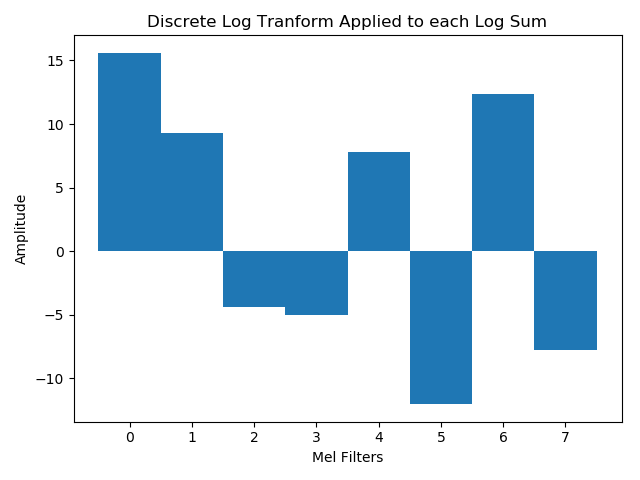
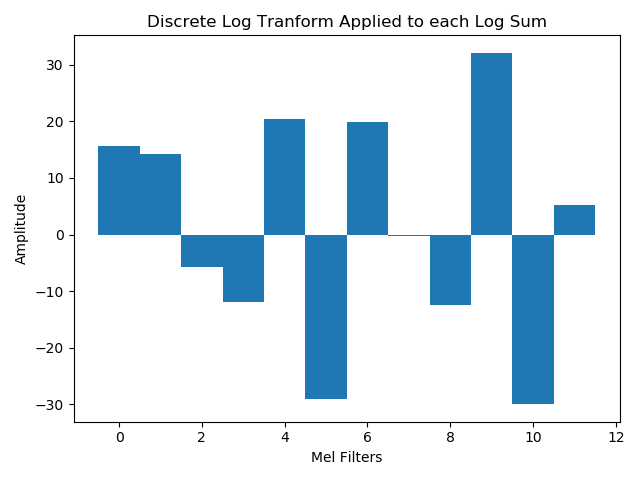
gan architecture finished

diff --git a/generation.tex b/generation.tex
@@ -1,9 +1,11 @@
 \externaldocument{clendshape_classification}
+\externaldocument{lit_review}
 
 \chapter{Audio Driven Blendshape GAN}
 This chapter shall discuss the use of GANs for audio driven facial animation.
 Unlike previous generative models which solve a regression problem to correctly match an audio input to a sequence parameters which describe facial motion, GANs also include an noise input resulting in variations in the output from the same conditional input.
 The model outputs will then be assessed on the classification models discussed in Chapter \ref{chap:classification}.
+The GAN is comprised of two neural networks, a Generator and a Critic, which are trained together using the outputs of each network to train the other.
 
 \section{Problem Definition}
 Currently, there is a lack of 3D temporal datasets which sync speech audio with corresponding facial motion with the purpose of training a model for VSR.
@@ -46,8 +48,8 @@ An example of the audio frames is show in Figure \ref{fig:mfcc_audio_frames}.
 \begin{figure}[h!]
     \centering
         \includegraphics[width=0.7\textwidth]{figures/mfcc/audio_frames.png}
-    \caption{Audio Sample Frames}
-\end{figure} \label{fig:mfcc_audio_frames}
+    \caption{Audio Sample Frames}\label{fig:mfcc_audio_frames}
+\end{figure} 
 
 For each frame the power spectrum is calculated using the periodogram estimation.  
 The incentive behind calculating the power spectrum is derived from human anatomy, specifically from the cochlea.
@@ -56,7 +58,7 @@ The periodogram estimation of the power spectrum performs a similar operation by
 This representation still retains information which is not useful for speech recognition, for example the cochlea cannot distinguish between closely spaced frequency values, this is more apparent at higher frequencies.
 The power spectrum for a single audio frame is shown in Figure \ref{fig:mfcc_power_spec}.
 For this reason a series of Mel filterbanks are applied to the power spectrum and the resulting bin for each filter is summed, this gives an approximation of the energy present in each frequency region.
-The Mel filterbanks are visualised in Figure \ref{fig:mfcc_mel_filterbanks}, for ease of visualisation, only 8 filterbanks are shown in these visualisations.
+The Mel filterbanks are visualised in Figure \ref{fig:mfcc_mel_filterbanks}.
 The log of each summation is then taken as humans do not perceive loudness on a linear scale, so the log compression matches the features more closely to what humans hear, shown in Figure \ref{fig:mfcc_log_sum}.
 
 \begin{figure}[h!]
@@ -88,8 +90,8 @@ This represents the MFCC values for a single audio frame for 8 Mel filterbanks.
     \caption{Discrete Cosine Transformation Processing}\label{fig:mfcc_filterbank_processing}
 \end{figure}
 
-The model inputs use a total of 50 filterbanks over the span of one second audio clips.
-This results in an model input MFCC $\mat{x} \in \mathbb{R}^{43 \times 50}$, visualised in Figure \ref{fig:mfcc_model_input}.
+The model inputs use a total of 12 filterbanks over the span of one second audio clips.
+This results in an model input MFCC $\mat{x} \in \mathbb{R}^{12 \times 43}$, visualised in Figure \ref{fig:mfcc_model_input}.
 
 \begin{figure}[h!]
     \centering
@@ -106,27 +108,182 @@ This results in an model input MFCC $\mat{x} \in \mathbb{R}^{43 \times 50}$, vis
 
 \subsection{Blendshape Inputs}
 The Generator aims to produce realistic blendshape parameters for the input audio signal, thus the input to the Critic must be the true blendshape parameter values and the `fake' generated blendshape parameters.
-These values are the same as were input to the Blendshape Classification models discussed in Section \ref{sec:classification_inputs}: $\mat{y} \in \mathbb{R}^{43 \times 4}$.
+These values are the same as were input to the Blendshape Classification models discussed in Section \ref{sec:classification_inputs}: $\mat{y} \in \mathbb{R}^{4 \times 43}$.
 The reader is directed to this section for further details.
 
-\section{Data Preprocessing}
-Data is normalised as before.
+\subsection{Noise Input}
+In addition to audio represented in the form of MFCCs, the Generator is also input with a noise component consisting of random samples taken from a uniform probability distribution within the range of 0 and 1, expressed by equation (\ref{eq:uniform_dist}).
 
-No need for validation set, just test set, so data training and validation set are merged.
+\begin{equation}\label{eq:uniform_dist}
+    f(x)=\begin{cases}
+      \frac{1}{b-a}, & \text{for $a \leq x \leq b$}\\
+      0, & \text{elsewhere}
+    \end{cases}
+\end{equation}
+
+\section{Data Preprocessing}
+As with the classification models, data inputs to the model are normalised within the range [0,1], the normalised MFCC input is shown in Figure \ref{fig:mfcc_norm_input}.
+This normalisation makes training both the critic and the generator easier as the range of values which the model will observe is reduced while preserving the statistical properties of the data.
+As the generated blendshape parameters are within the range [0,1] the Sigmoid activation function can be used at the output layer of the model, rather than a linear output with an infinite range.
 
 \section{Assessment of Model Performance}
+Assessing the performance of GAN is less straightforward than other machine learning models.
+For example, in a supervised learning scenario, a classification model can be assessed on the accuracy of predictions or f-score on a test set in addition to the model loss on these predictions, as discussed in Section \ref{sec:class_assessment}.
+As GAN describe an unsupervised learning scenario, assessment metrics are less clear and problem specific.
+In this problem, the aim of the Generator is to find a mapping from an audio signal represented by a series of MFCCs, to a series of blendshape parameters which the Critic considers to be a correct match.
+The Critic's goal is to be able to judge pairings of MFCCs and blendshape parameters as a realistic match.
 
-Outputs are difficult to assess as they are subjective and don't have an obvious means to quantify the quality of the results.
+A realistic pairing of audio and blendshape parameters would meet the following conditions:
+\begin{itemize}
+    \item Movement would appear realistic to a human observer.
+    \item Movement would appear correlated to the speech in the audio signal to a human observer.
+    \item Speech would be correlated, such that a pretrained blendshape classifier would be able to make some degree of successful predictions from the parameters.
+\end{itemize}
 
-Generated results can be assessed by classification models discussed previously.
+The first two conditions are difficult to evaluate in a quantitative manner as this is a matter of opinion from the observer.
+A subjective evaluation can be conducted on a collection of participants, however finding subjects who can accurately lip read is challenging due to the difficulty of the skill, especially in this scenario where there is no context for the spoken phrases.
+Subjects who cannot lip read could be used, however this is unreliable as in many cases a video clip which has been dubbed over with an audio signal, which has been roughly matched with a speaking subject may seem plausible.
+With the absence of audio, the 'realism' of the animation movement is also difficult to determine.
+While aspects of animation which easily make generated data identifiable are sudden movements and shaking in the animation which would not be apparent in real speech, a series of parameter values which produce a smooth animation may easily fool observers.
 
-Variance in label outputs can be measured to see if the model has learnt new ways of saying something.
-Probably only valid for labels which have been correctly labelled by (both?) classifiers.
+A quantitative metric which can be evaluated is the performance of generated samples on the pretrained blendshape classifiers, the architecture and performance of which is discussed in Chapter \ref{chap:classification}.
+As the Generator aims to find the mapping between the input audio signal and blendshape parameters, if successful, the generated blendshape parameters should have properties similar to those of the original data which would allow for correct classification.
 
-Could conduct subjective evaluation, but this remains limited to performance of VOCA model, as are all results...
+Given that the success of the Generator is dependent upon producing blendshape parameters which the critic cannot distinguish from real samples, the primary metric which shall be used is the losses on the validation set from both the Critic and the Generator during training.
+Training of the Generator will be complete when the Critic can no longer distinguish between real and fake samples.
+Will this occurs the Critic losses have settled at 0.
 
 \section{Model Architecture}
-Describe model arch for both critic and gen
+The GAN is composed of a Generator and a Critic, trained with the Wasserstein Loss with Gradient Penalty to ensure the Lipschtiz condition, described by equation (\ref{eq:wgan_gp}).
+More details on the loss function is discussed are Section \ref{sec:Stability_to_GANs}.
+
+\subsection{Model Structure}
+The GAN model is trained with Wasserstein Loss with Gradient Penalty to meet Lipschtiz condition as discussed in Section \ref{sec:Stability_to_GANs}.
+The GAN model is constructed of two CNN architectures; a Generator and a Critic.
+A high level diagram of the GAN model is shown by Figure \ref{fig:gan_model}.
+
+\begin{figure}[h!]
+    \centering
+        \includegraphics[width=0.9\textwidth]{figures/gan/gan.png}
+    \caption{GAN Model}\label{fig:gan_model}
+\end{figure} 
+
+The Critic is trained on a corresponding pair of MFCC values and blendshape parameters.
+The goal of the Critic is to be able to identify a correct pairing from the dataset and a false pairing consisting of MFCC values and a fake series of blendshape parameters generated by the Generator.
+The Critic returns a score value within the range of [-1, 1], where data inputs which it regards as realistic are smaller, while parings which is regards as fake are larger.
+For each minibatch in a training epoch the Critic is shown a batch of real data values $\mat{x}$ and the Generator creates a batch of fake data values $\mat{\tilde{x}}$.
+The Critic evaluates this data and returns a score for both the real and fake data.
+In addition to the loss from the Critic score on real and fake data samples, the gradient penalty term is calculated, this term is to be minimised to meet the Lipschtiz condition, \cite{Gulrajani2017}.
+This is found by evaluating the score of the Critic on a new data sample taken at random along the interpolation between the real and fake blendshape parameters, $\mat{\hat{x}}$.
+The gradient penalty term $\mat{k}$ can then be found with equation (\ref{eq:grad_penalty}) with the interpolated value, where $\lambda$ is a tunable hyperparameter.
+
+\begin{equation}\label{eq:grad_penalty}
+    \mat{k} = \lambda \E{\bm{\hat{x}} \sim \Pd{\bm{\hat{x}}}} 
+            [(\| \nabla_{\bm{\hat{x}}} D(\bm{\hat{x}}) \| - 1)^2]
+\end{equation}
+
+The Generator takes inputs of MFCC values and noise from a uniform distribution, these are concatenated together and processed as a single input.
+The Generator then attempts to map this input into blendshape parameter values which the Critic evaluated to a low loss value. 
+During training, the samples produced by the Generator are assessed by the Critic.
+The Generator aims to have the samples it produces labelled as realistic, such that the Critic returns a low value.
+
+At any point for the Generator to improve the quality of the samples it can produce, the Critic must initially be able to distinguish between the real and fake samples, else the Generator has no incentive to improve.
+For this reason, the Critic is trained more frequently then the Generator, in this case the Generator is trained one in ten batches, while the Critic is trained on every batch, the data is shuffled so that the Generator is still exposed to the whole training dataset.
+
+\begin{table}[h!]
+\centering
+    \begin{tabular}{l | r | r}
+    & \textbf{Generator} & \textbf{Critic}\\
+    \hline
+    Optimisation Algorithm & RMSprop & RMSprop \\
+    Learning Rate          & 0.00001 & 0.00001 \\
+    Scheduler              & 0.999   & 0.999   \\
+    Batch Size             & 128     & 128     \\
+    Training Ratio         & 1:10    & 1:1     \\
+    Gradient Penalty       & -       & 5       \\
+    \end{tabular} 
+    \caption{GAN Hyperparameters}\label{table:gan_hyperparameters}
+\end{table}
+
+\subsection{Generator}
+The Generator aims to transform noise from a uniform distribution into realistic blendshape parameters given the conditional input of MFCC values for a given audio sample.
+Five channels of noise are sampled with the same shape as in MFCC input and the two are concatenated along the channel dimension, such that the input data is $\mat{z} \in \mathbb{R}^{6 \times 12 \times 43}$.
+The Generator model architecture is a fully convolutional network which takes the input values $\mat{z}$ and transforms this into blendshape parameters $\mat{\tilde{x}} \in \mathbb{R}^{4 \times 43}$.
+
+\begin{figure}[h!]
+    \centering
+        \includegraphics[width=0.8\textwidth]{figures/gan/generator.png}
+    \caption{Generator Model Architecture}\label{fig:gan_gen_arch}
+\end{figure}
+
+The model (shown in Figure \ref{fig:gan_gen_arch}) consists of five convolutional layers, the detailed specification of which is shown in Table \ref{table:gan_gen_arch}.
+The first pads the input along the time domain as the output dimension along the time domain is to be the same as in input, corresponding to separate frames of blendshape parameters, without padding this dimension would be reduced due to convolution operations.
+This is a significant amount of padding to be applied to a single layer, however when a padding values of one was applied to all layers this resulted obvious artifacts at the beginning and end of the generated sequence, while this produces no such artifacts.
+The first layer has a high number of filter channels to extract the largest possible amount of information from in input data, following layers reduce the number of channels to compress this information into the final output layer which has 4 channels, one for each blendshape parameter.
+
+The model uses ReLU activate functions for all hidden layers and the Sigmoid activation function at the output layer to achieve blendshape parameters in the range [0, 1].
+The output layer also uses a larger kernel size than the hidden layers, which all use a kernel size of 3.
+When a small kernel was used at the output layer there existed a large amount of of jitter in the output parameters, increasing the output kernel seems to eliminate this and produce animation with smoother motion.
+The role of this output layer is not to extract useful information for subsequent layers to use, but to generate the output values.
+A larger kernel increases to receptive field of this layer on the feature maps from the previous layer, resulting in reduced variation between subsequent frames and less jitter.
+
+\begin{table}[h!]
+\centering
+    \begin{tabular}{ l | r | r | r | l}
+    \textbf{Layer} & \textbf{Output} & \textbf{Kernel} & \textbf{Padding} & \textbf{Activation} \\ \hline
+    Conv2D & 256x10x53 & (3,3) & (0,6) & ReLU    \\ \hline
+    Conv2D & 128x8x51  & (3,3) & (0,0) & ReLU    \\ \hline
+    Conv2D & 128x6x49  & (3,3) & (0,0) & ReLU    \\ \hline
+    Conv2D & 64x4x47   & (3,3) & (0,0) & ReLU    \\ \hline
+    Conv2D & 4x1x43    & (4,5) & (0,0) & Sigmoid 
+    \end{tabular} 
+    \caption{Generator Model Architecture}\label{table:gan_gen_arch}
+\end{table}
+
+\subsection{Critic}
+The Critic aims to distinguish real data samples from the training dataset from data samples from the Generator.
+The high level overview of the model architecture is shown in Figure \ref{fig:gan_critic_arch} and listed in detail in Table \ref{table:gan_critic_arch}.
+Inputs to the Critic are comprised of MFCC values and blendshape parameters, both of which have different dimension sizes, but share a common time dimension. 
+There are 12 MFCC filter values and 4 blendshape parameter per time instance.
+In order to concatenate these values together, the blendshape parameter values are treated as a separate channel and duplicated 12 times, such that the blendshape parameters are expressed as $\mat{b} \in \mathbb{R}^{4 \times 12 \times 43}$.
+This is then concatenated with the MFCC values $\mat{m} \in \mathbb{R}^{1 \times 12 \times 43}$, into the input values $\mat{x} \in \mathbb{R}^{5 \times 12 \times 43}$.
+
+The Critic model consists of three sections, the first two are built of convolutional layers using the LeakyReLU activation function while the last the output layer, a linear layer using the Tanh activation function.
+the first three layers are two dimensional convolutional layers which do not convolve over the time domain, just the height dimension.
+This allows the model to find an efficient encoding of the input audio and blendshape parameters.
+The number of filters is increased throughout this encoding stage as opposed to extracting a large number of filters initially as was the case with the Generator.
+The reasoning behind this is that the initial input contains a great deal of repetition due to the blendshape parameters being duplicated into the same shape as the MFCC values.
+
+The second section aims to convolve over the time domain, as the singleton dimension can now be collapsed, one dimension convolutional layers can now be used to achieve this.
+The section consists of three convolutional layers, each of which have a stride of two and a decreasing kernel size across the three layers.
+The first of which uses a kernel size of 5 in order to capture higher level features while the subsequent layers have kernel sizes of 4 and 3 respectively to capture more fine detailed features.
+
+The final layer is a linear layer which provides the critic score for the input data sample.
+The layer uses the Tanh activation function to output a score in the range of [-1, 1].
+
+\begin{figure}[h!]
+    \centering
+        \includegraphics[width=0.9\textwidth]{figures/gan/critic.png}
+    \caption{Critic Architecture}\label{fig:gan_critic_arch}
+\end{figure}
+\quad
+
+\begin{table}[h!]
+\centering
+    \begin{tabular}{ l | r | r | r | l}
+    \textbf{Layer} & \textbf{Output} & \textbf{Kernel} & \textbf{Stride} & \textbf{Activation} \\ \hline
+    Conv2D & 64x5x43   & (4,1) & (1,1) & LeakyReLU \\ \hline
+    Conv2D & 128x3x43  & (3,1) & (1,1) & LeakyReLU \\ \hline
+    Conv2D & 128x1x43  & (3,1) & (1,1) & LeakyReLU \\ \hline
+    Conv1D & 128x20    & 5     & 2     & LeakyReLU \\ \hline
+    Conv1D & 128x9     & 4     & 2     & LeakyReLU \\ \hline
+    Conv1D & 64x4      & 3     & 2     & LeakyReLU \\ \hline
+    Linear & 16        & -     & -     & Tanh      
+    \end{tabular} 
+    \caption{Critic Model Architecture}\label{table:gan_critic_arch}
+\end{table}
+\quad
+
 
 \section{Results}
 

diff --git a/blendshape_classification.tex b/blendshape_classification.tex
@@ -174,7 +174,7 @@ To aid training, the dataset is normalised to a range of [0,1] using equation (\
 While each Blendshape Axis is separate from one another, normalisation should be performed on all parameters as a whole to preserve information on the variation found in each Blendshape Axis relative to one another.
 As described by PCA in section \ref{sec:pca}, the variation in each subsequent principal axis decreases which can be seen in Figure \ref{fig:hist_norm}.
 
-\begin{equation} \label{eq:normalise}
+\begin{equation}\label{eq:normalise}
    x^\prime = \frac{x - x_{min}}{x_{max} - x_{min}} 
 \end{equation}
 
@@ -191,7 +191,7 @@ As described by PCA in section \ref{sec:pca}, the variation in each subsequent p
     \caption{Blendshape Parameter Histograms}
 \end{figure}
 
-\section{Assessment of Model Performance}
+\section{Assessment of Model Performance}\label{sec:class_assessment}
 In order to assess the performance of the models in the task of word level classification, several metrics exist which could be used.
 The chosen metrics are the model accuracy and the Levenshtein Distance.
 The accuracy gives a measure of how frequently the model correctly predicts the word while the Levenshtein Distance represents how far the incorrect predictions are from the correct words.
@@ -230,8 +230,8 @@ This can be calculated for each model prediction and the average character-level
         A & B & U & S & E & Add E\\
         \cline{1-5}
     \end{tabular} 
-    \caption{Levenshtein Distance Example}
-\end{figure}\label{fig:levenshtein}
+    \caption{Levenshtein Distance Example}\label{fig:levenshtein}
+\end{figure}
 
 \section{Model Architecture}
 
@@ -270,8 +270,8 @@ The hyperparameters which provided the optimum results on the validation data ar
 \begin{figure}[h!]
     \centering
         \includegraphics[width=0.9\textwidth]{figures/classification/blendshape_multi_tower_arch.png}
-    \caption{Multiple Towers Classification Architecture}
-\end{figure}\label{fig:Blendshape_Multiple_Towers}
+    \caption{Multiple Towers Classification Architecture}\label{fig:Blendshape_Multiple_Towers}
+\end{figure}
 \quad
 
 \begin{table}[h!]
@@ -287,18 +287,18 @@ The hyperparameters which provided the optimum results on the validation data ar
     Conv1D & 64x7 & 3 & 1 & False & 0.0 & ReLU \\ \hline
     Linear & 500 & - & - & False & 0.0 & LogSoftmax \\
     \end{tabular} 
-    \caption{Multiple Towers Model Architecture}
-\end{table}\label{table:multi_towers_classifier}
+    \caption{Multiple Towers Model Architecture}\label{table:multi_towers_classifier}
+\end{table}
 \quad
 
 \begin{table}[h!]
 \centering
     \begin{tabular}{l | r | r | r}
-    \textbf{Optimisation Algorithm} & \textbf{Learning Rate} & \textbf{Weight Decay} & \textbf{Batch Size} \\ \hline
+    \textbf{Optimisation} & \textbf{Learning Rate} & \textbf{Weight Decay} & \textbf{Batch Size} \\ \hline
     RMSprop & 0.0002 & 0.001 & 128 \\
     \end{tabular} 
-    \caption{Multiple Towers Model Hyperparameters}
-\end{table}\label{table:multi_towers_classifier_hyperparameters}
+    \caption{Multiple Towers Model Hyperparameters}\label{table:multi_towers_classifier_hyperparameters}
+\end{table}
 
 
 \subsection{Blendshape Channels Classification Model}
@@ -353,7 +353,7 @@ The model was tuned on the validation data to with the hyperparameters shown in 
 \begin{table}[h!]
 \centering
     \begin{tabular}{l | r | r | r}
-    \textbf{Optimisation Algorithm} & \textbf{Learning Rate} & \textbf{Weight Decay} & \textbf{Batch Size} \\
+    \textbf{Optimisation} & \textbf{Learning Rate} & \textbf{Weight Decay} & \textbf{Batch Size} \\
     \hline
     RMSprop & 0.00005 & 0.005 & 128 \\
     \end{tabular} 

diff --git a/lit_review.tex b/lit_review.tex
@@ -208,11 +208,11 @@ The two networks are trained in an alternating fashion until the discriminator a
 
 GANs however, are difficult to train for two main reasons.
 Firstly, the equation (\ref{eq:gans_loss}) is challenging as it provides small gradients while generated samples are poor as discussed in \cite{Goodfellow2014}.
-Progress in developing new loss functions is discussed in section \ref{Stability_to_GANs}
+Progress in developing new loss functions is discussed in section \ref{sec:Stability_to_GANs}
 Secondly, early networks must also be balanced with a similar model capacity to prevent one from getting too much better than the other, preventing the other from improving.
 Various architectural changes have improved this issue \cite{Radford2016, Zhang2018}, although it seems to be closely tied to the loss function being used \cite{Gulrajani2017}.
 
-\subsubsection{Stability Improvements of GANs} \label{Stability_to_GANs}
+\subsubsection{Stability Improvements of GANs} \label{sec:Stability_to_GANs}
 There have been a large number of papers presenting new techniques with differing levels of success and training stability, a small handful of key papers which provide large advances in the generative adversarial training model shall be discussed here.
 A primary research focus around GANs has been in finding new loss functions on which to train the model to improve stability and performance.
 The original loss function proposed in the original paper \cite{Goodfellow2014} identifies an issue with equation (\ref{eq:gans_loss}) in that the gradient back propagated to the generator when the generated samples are poor, is very low as shown in figure \ref{fig:Goodfellow_plot}.
